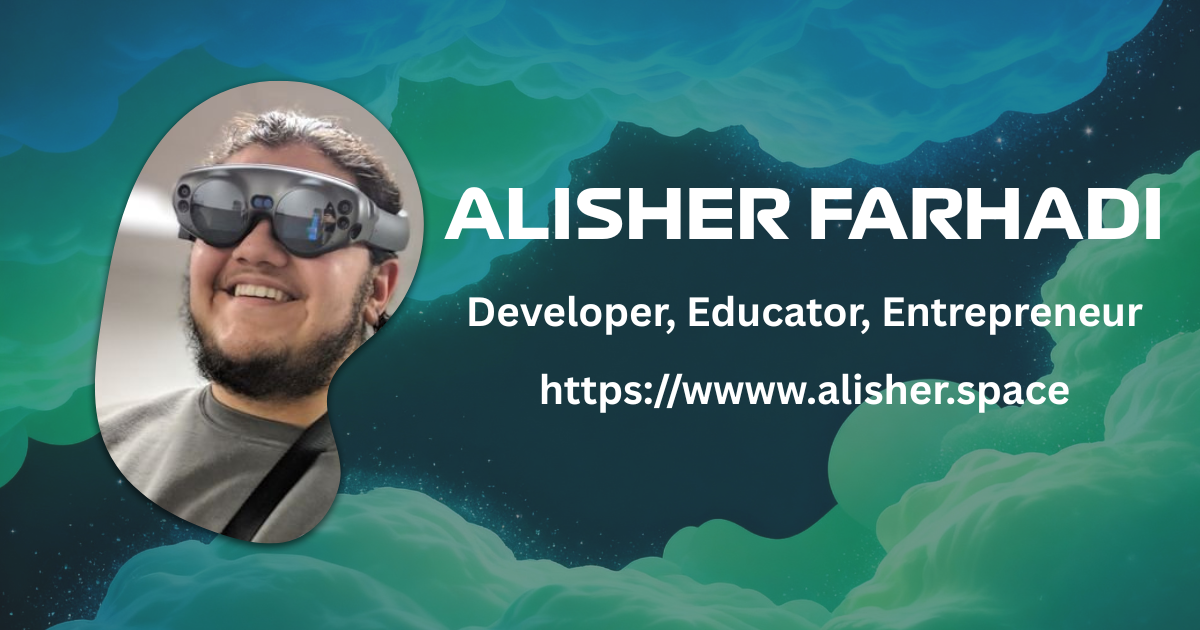
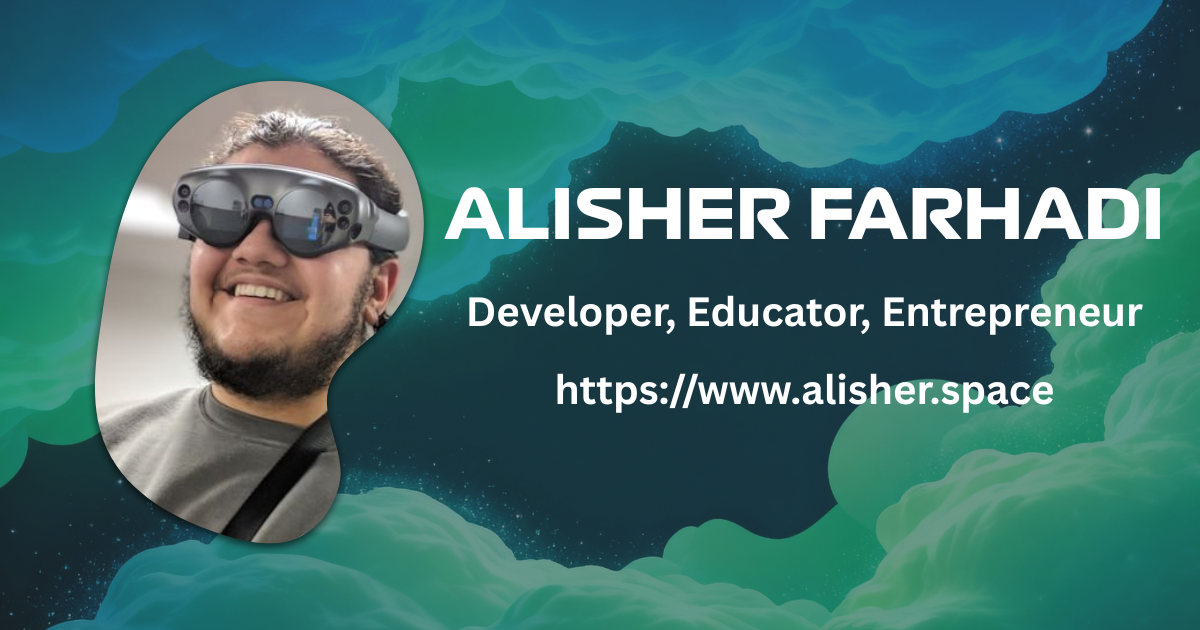
updated OG

Changed region(s): [[0.4317, 0.573, 0.8942, 0.6635]]

diff --git a/src/app/layout.tsx b/src/app/layout.tsx
@@ -26,10 +26,10 @@ export const metadata: Metadata = {
     "infrastructure",
   ],
   authors: [{ name: "Alisher Farhadi" }],
-  metadataBase: new URL("https://alisher.space"),
+  metadataBase: new URL("https://www.alisher.space"),
   openGraph: {
     type: "website",
-    url: "https://alisher.space",
+    url: "https://www.alisher.space",
     title: "Alisher Farhadi - Developer, Educator, Entrepreneur",
     description:
       "Alisher Farhadi is a developer, educator, and entrepreneur, and an AI enthusiast having developed several SAAS platforms and worked on online infrastructure.",
